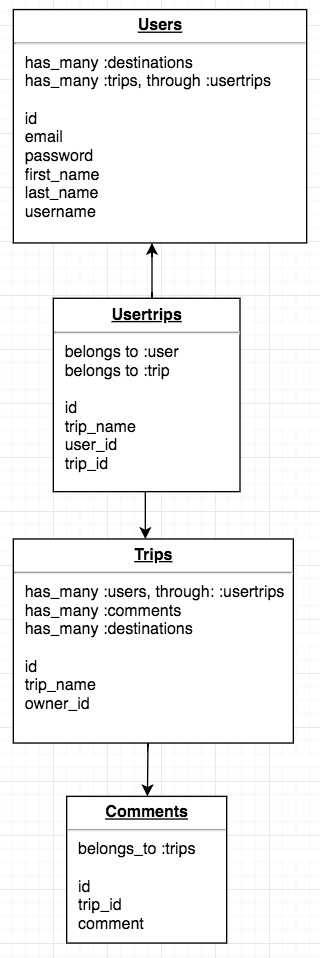
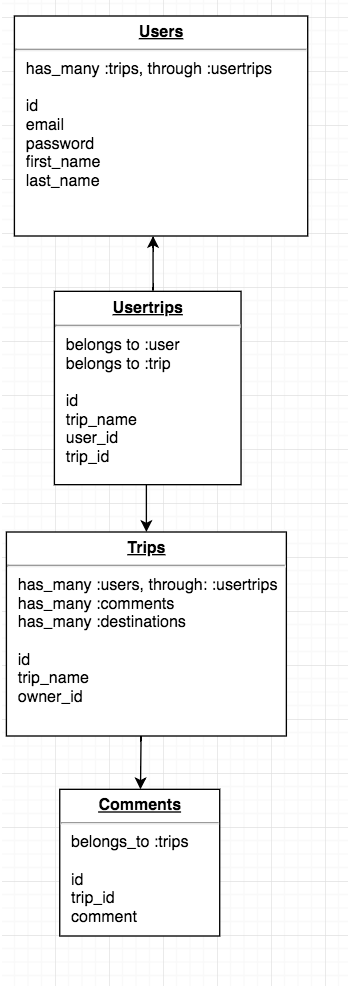
Add models and model tests

diff --git a/db/schema.rb b/db/schema.rb
@@ -10,10 +10,14 @@
 #
 # It's strongly recommended that you check this file into your version control system.
 
-ActiveRecord::Schema.define(version: 2018_10_18_131748) do
+ActiveRecord::Schema.define(version: 2018_10_27_225152) do
 
   # These are extensions that must be enabled in order to support this database
   enable_extension "plpgsql"
+
+  create_table "trips", force: :cascade do |t|
+    t.string "name", null: false
+  end
 
   create_table "users", force: :cascade do |t|
     t.string "first_name", null: false
@@ -41,6 +45,13 @@ ActiveRecord::Schema.define(version: 2018_10_18_131748) do
     t.index ["email"], name: "index_users_on_email", unique: true
     t.index ["reset_password_token"], name: "index_users_on_reset_password_token", unique: true
     t.index ["unlock_token"], name: "index_users_on_unlock_token", unique: true
+  end
+
+  create_table "usertrips", force: :cascade do |t|
+    t.bigint "trip_id", null: false
+    t.bigint "user_id", null: false
+    t.index ["trip_id"], name: "index_usertrips_on_trip_id"
+    t.index ["user_id"], name: "index_usertrips_on_user_id"
   end
 
 end

diff --git a/spec/models/user_spec.rb b/spec/models/user_spec.rb
@@ -1,5 +1,16 @@
 require 'rails_helper'
 
 RSpec.describe User, type: :model do
-  pending "add some examples to (or delete) #{__FILE__}"
+  let!(:user) { User.create(first_name: "Amelia", last_name: "Kim", email: "ameliamjkim@gmail.com", password: "helloeveryone") }
+  it { should have_valid(:first_name).when("John") }
+  it { should_not have_valid(:first_name).when(nil, "") }
+
+  it { should have_valid(:last_name).when("Doe") }
+  it { should_not have_valid(:last_name).when(nil, "") }
+
+  it { should have_valid(:email).when("johndoe@gmail.com") }
+  it { should_not have_valid(:email).when(nil, "") }
+
+  it { should have_valid(:password).when("helloeveryone") }
+  it { should_not have_valid(:password).when(nil, "") }
 end

diff --git a/spec/models/usertrip_spec.rb b/spec/models/usertrip_spec.rb
@@ -1,0 +1,13 @@
+require 'rails_helper'
+
+describe Usertrip do
+  let!(:trip) { Trip.create(name: "Greece") }
+  let!(:user) { User.create(first_name: "Amelia", last_name: "Kim", email: "ameliamjkim@gmail.com", password: "helloeveryone") }
+
+  it { should have_valid(:user).when(user) }
+  it { should_not have_valid(:user).when(nil) }
+
+  it { should have_valid(:trip).when(trip) }
+  it { should_not have_valid(:trip).when(nil) }
+
+end

diff --git a/app/models/user.rb b/app/models/user.rb
@@ -4,6 +4,9 @@ class User < ApplicationRecord
   devise :database_authenticatable, :registerable,
          :recoverable, :rememberable, :validatable
 
+  has_many :usertrips
+  has_many :trips, through: :usertrips
+
   validates_presence_of :first_name, :last_name
   validates_format_of [:first_name, :last_name],  {with: /\A[a-zA-Z]+\z/}
 end

diff --git a/db/seeds.rb b/db/seeds.rb
@@ -5,3 +5,5 @@
 #
 #   movies = Movie.create([{ name: 'Star Wars' }, { name: 'Lord of the Rings' }])
 #   Character.create(name: 'Luke', movie: movies.first)
+
+user = User.create(first_name: "Amelia", last_name: "Kim", email: "ameliamjkim@gmail.com", password: "helloworld")

diff --git a/db/migrate/20181027225152_create_usertrips.rb b/db/migrate/20181027225152_create_usertrips.rb
@@ -1,0 +1,8 @@
+class CreateUsertrips < ActiveRecord::Migration[5.2]
+  def change
+    create_table :usertrips do |t|
+      t.belongs_to :trip, null: false
+      t.belongs_to :user, null: false
+    end
+  end
+end

diff --git a/db/migrate/20181027225129_create_trips.rb b/db/migrate/20181027225129_create_trips.rb
@@ -1,0 +1,7 @@
+class CreateTrips < ActiveRecord::Migration[5.2]
+  def change
+    create_table :trips do |t|
+      t.string :name, null: false
+    end
+  end
+end

diff --git a/spec/models/trip_spec.rb b/spec/models/trip_spec.rb
@@ -1,0 +1,6 @@
+require 'rails_helper'
+
+describe Trip do
+  it { should have_valid(:name).when("Greece") }
+  it { should_not have_valid(:name).when(nil, "") }
+end

diff --git a/app/models/trip.rb b/app/models/trip.rb
@@ -1,0 +1,6 @@
+class Trip < ApplicationRecord
+  has_many :usertrips
+  has_many :users, through: :usertrips
+
+  validates_presence_of :name
+end

diff --git a/app/models/usertrip.rb b/app/models/usertrip.rb
@@ -1,0 +1,6 @@
+class Usertrip < ApplicationRecord
+  belongs_to :user
+  belongs_to :trip
+
+  validates_presence_of :user_id, :trip_id
+end
